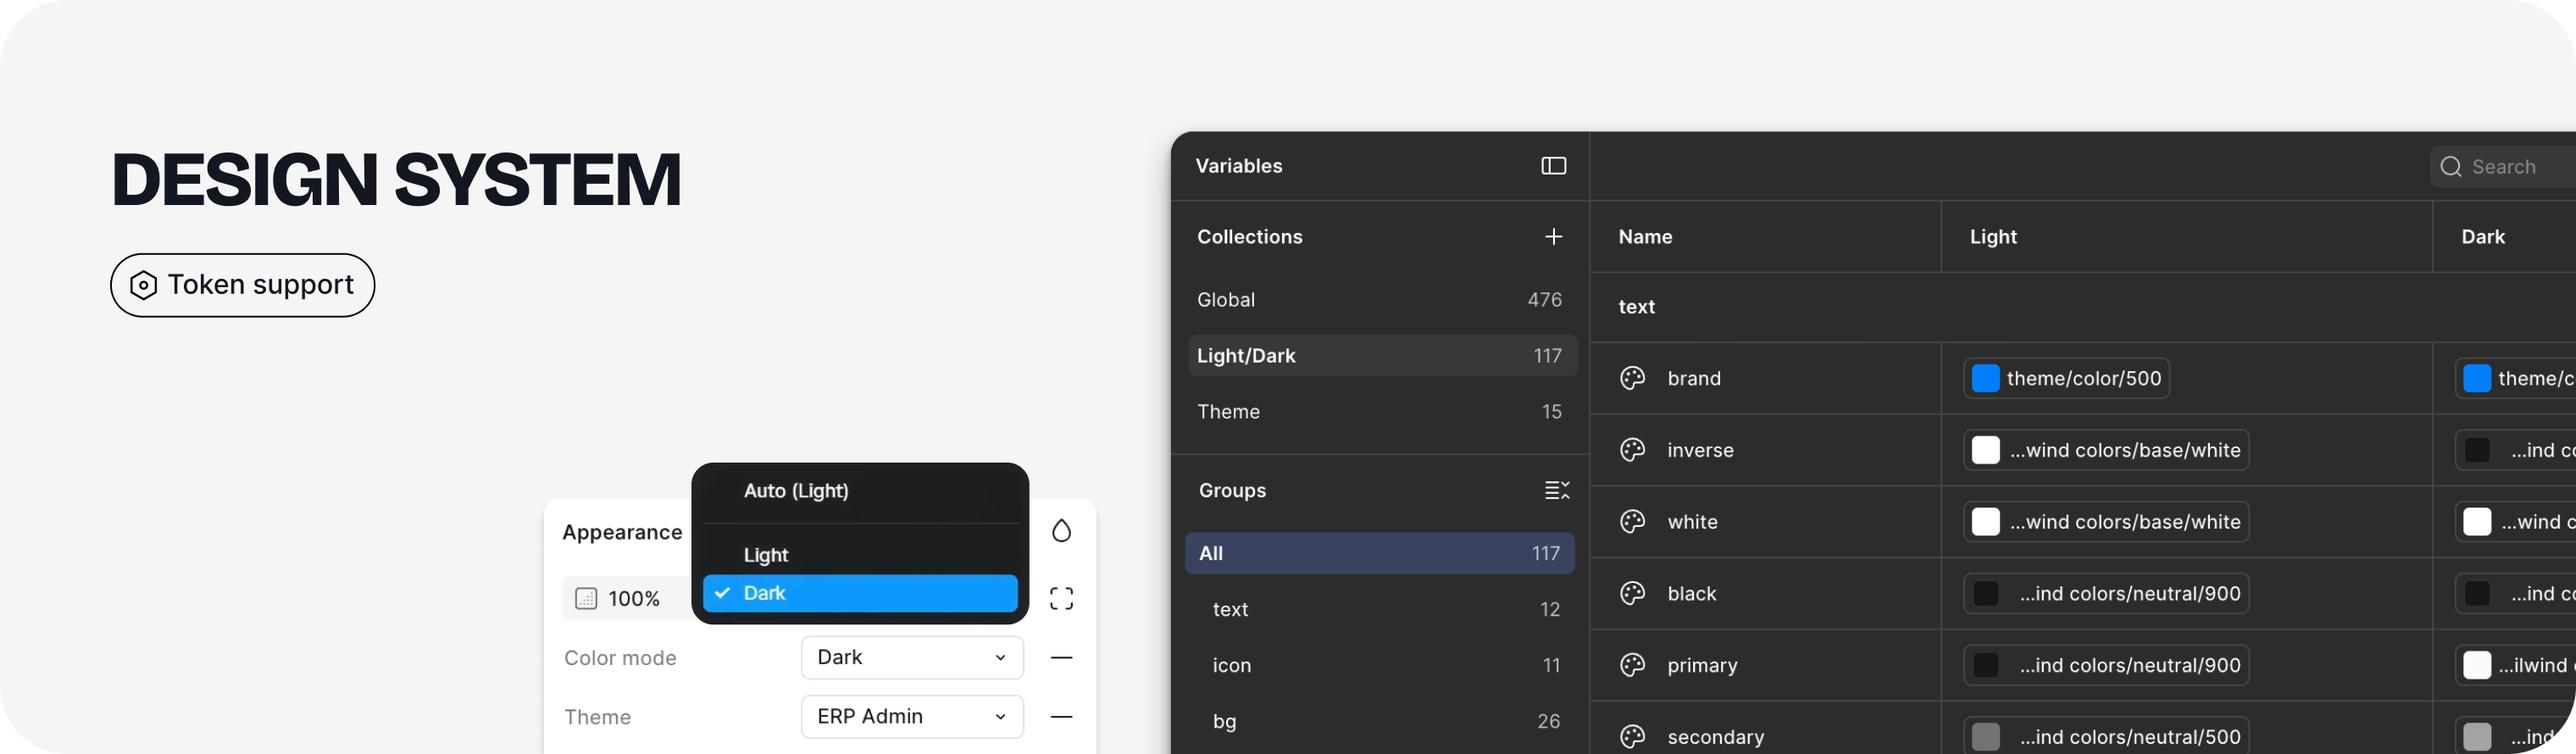
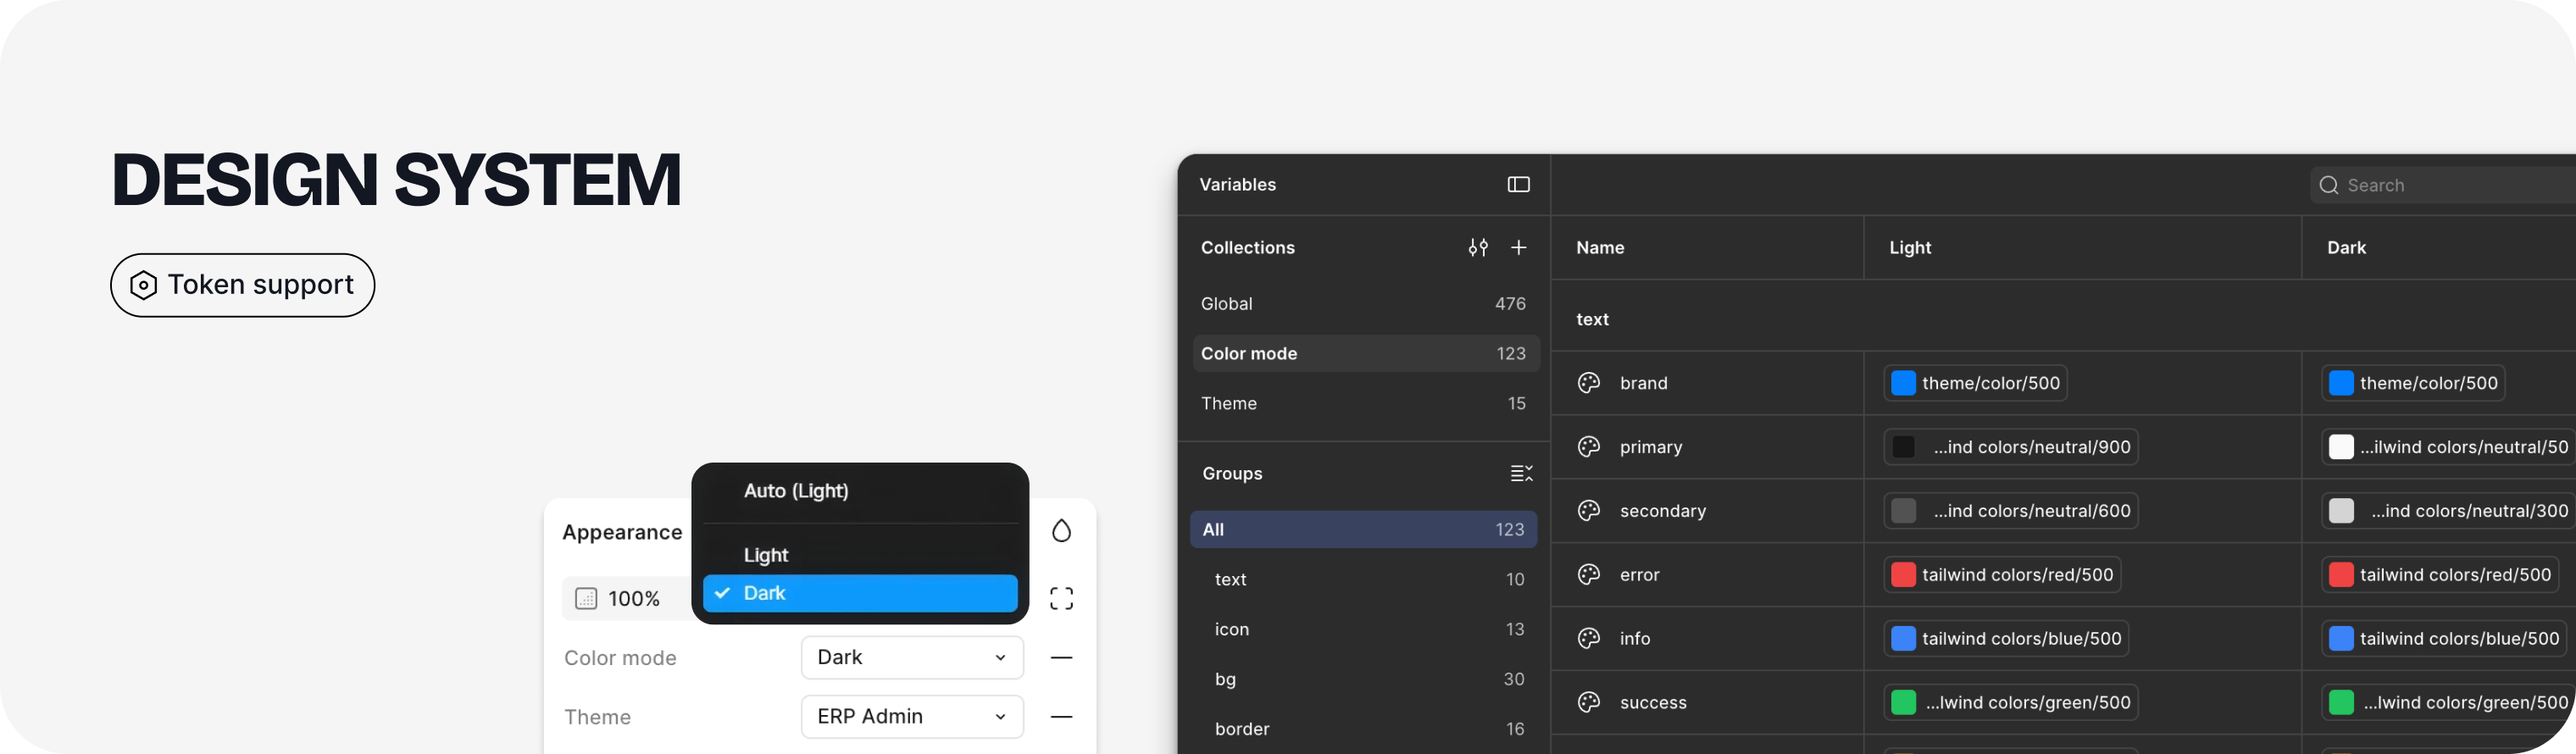
Refresh ERP project introduction and design system image

diff --git a/vietnix-erp/index.html b/vietnix-erp/index.html
@@ -1071,15 +1071,15 @@
     @media (max-width:800px) {
       .capabilities-inner { grid-template-columns:1fr; gap:24px; }
     }
-  </style>
+</style>
 </head>
 <body>
   <header class="nav"><div class="wrap nav-inner"><a class="brand" href="#top">Nga Pham</a><nav class="nav-links" aria-label="Điều hướng case study"><a href="#context">Vai trò</a><a href="#migration">Bối cảnh</a><a href="#capabilities">Phạm vi tính năng</a><a href="#system">Design system</a><a href="#process">Workflow</a><a href="#account-context">Case study</a><a href="#screens">Màn hình</a></nav><button class="menu" type="button" aria-label="Mở menu" aria-expanded="false"></button></div><div class="progress"></div></header>
   <main id="top">
     <section class="hero"><div class="wrap hero-inner">
-      <div class="hero-intro"><div class="hero-title reveal"><p class="eyebrow">Case study · 01 - 10/2026</p><h1 class="display title-xl">ERP - Platform Migration<br>&amp; System Redesign</h1></div><div class="hero-info"><div class="hero-copy reveal"><p class="lead">Thiết kế lại trải nghiệm Vietnix ERP khi chuyển từ WHMCS sang hệ thống tự xây dựng cho cả Client Portal và Admin Portal.</p><p class="detail">Bài toán không chỉ là giao diện mới: luồng thao tác phải thích ứng với <span class="token-emphasis">Data Migration</span>, nhu cầu quản lý dịch vụ của <span class="token-emphasis">Client Portal</span> và quy trình vận hành của <span class="token-emphasis">Admin Portal</span>. Mình ưu tiên làm rõ ngữ cảnh tài khoản, trạng thái chỉnh sửa và cấu trúc dữ liệu, đồng thời giữ những cách thao tác quen thuộc để giảm thay đổi không cần thiết.</p></div><dl class="meta-list reveal"><div class="meta-row"><dt>Vai trò</dt><dd>UX/UI Product Designer</dd></div><div class="meta-row"><dt>Thời gian</dt><dd>01 - 10/2026</dd></div><div class="meta-row"><dt>Nền tảng</dt><dd>Client Portal &amp; Admin Portal</dd></div></dl></div></div>
+      <div class="hero-intro"><div class="hero-title reveal"><h1 class="display title-xl">ERP - Platform Migration<br>&amp; System Redesign</h1></div><div class="hero-info"><div class="hero-copy reveal"><p class="lead">Thiết kế lại trải nghiệm Vietnix ERP khi chuyển từ WHMCS sang hệ thống tự xây dựng cho cả Client Portal và Admin Portal.</p><p class="detail">Đây là bài toán thiết kế chịu ràng buộc về Data Migration, không đơn thuần là thay đổi giao diện. Hệ thống mới đồng thời tối ưu trải nghiệm Client Portal và hiệu suất vận hành Admin Portal, đồng thời duy trì tư duy quen thuộc để đảm bảo quá trình chuyển giao liền mạch.</p></div><dl class="meta-list reveal"><div class="meta-row"><dt>Vai trò</dt><dd>UX/UI Product Designer</dd></div><div class="meta-row"><dt>Thời gian</dt><dd>01 - 10/2026</dd></div><div class="meta-row"><dt>Nền tảng</dt><dd>Client Portal &amp; Admin Portal</dd></div></dl></div></div>
       <div class="hero-media reveal"><img src="assets/01-hero-erp-platform-overview.jpg" alt="Laptop hiển thị dashboard Vietnix ERP" fetchpriority="high"></div>
-      <div class="role" id="context"><div class="role-copy reveal"><p class="eyebrow">01 - Vai trò</p><h2 class="display">Mình đã làm những gì</h2><p>Là UX/UI Product Designer duy nhất trong team, mình phân tích tài liệu nghiệp vụ và hệ thống cũ, thiết kế luồng và giao diện cho hai portal, xây dựng Design System, rồi phối hợp với Development trong quá trình triển khai.</p></div><div class="role-work"><div class="role-stats reveal"><div class="role-stat"><strong data-count="2">2</strong><span>Hệ thống (Client + Admin Portal)</span><small>Dùng chung một bộ giao diện</small></div><div class="role-stat"><strong data-count="6">6</strong><span>Nhóm tính năng</span><small>Khách hàng, đơn hàng, dịch vụ, hóa đơn, hỗ trợ…</small></div><div class="role-stat"><strong data-count="100" data-suffix="+">100+</strong><span>Màn hình đã thiết kế</span></div></div><div class="work-list"><div class="work-item reveal"><i></i><p><strong>Xây dựng bộ Design System từ đầu</strong> - bộ quy chuẩn dùng chung giữ cho toàn bộ sản phẩm nhất quán.</p></div><div class="work-item reveal"><i></i><p><strong>Thiết kế giao diện end-to-end cho toàn bộ dự án</strong> - thiết kế các luồng quản lý khách hàng, đơn hàng, thanh toán và vận hành trên cả hai portal.</p></div><div class="work-item reveal"><i></i><p><strong>Chuẩn hoá các mẫu design patterns</strong> - List, Detail, Dashboard, File Manager, Chat/Conversation.</p></div><div class="work-item reveal"><i></i><p><strong>Ứng dụng AI vào quy trình thiết kế</strong> - dùng AI để hỗ trợ research từ tài liệu nghiệp vụ và hệ thống hiện có, đồng thời dựng prototype tương tác để kiểm tra luồng và lấy phản hồi từ team.</p></div></div></div></div>
+      <div class="role" id="context"><div class="role-copy reveal"><p class="eyebrow">01 - Vai trò</p><h2 class="display">Mình đã làm những gì</h2><p>Là UX/UI Product Designer duy nhất trong team, mình phân tích tài liệu nghiệp vụ và hệ thống cũ, thiết kế luồng và giao diện cho hai portal, xây dựng Design System, rồi phối hợp với Development trong quá trình triển khai.</p></div><div class="role-work"><div class="role-stats reveal"><div class="role-stat"><strong data-count="2">2</strong><span>Hệ thống (Client + Admin Portal)</span><small>Dùng chung một bộ giao diện</small></div><div class="role-stat"><strong data-count="5" data-suffix="+">5+</strong><span>Nhóm tính năng</span><small>Khách hàng, đơn hàng, dịch vụ, hóa đơn, hỗ trợ…</small></div><div class="role-stat"><strong data-count="100" data-suffix="+">100+</strong><span>Màn hình đã thiết kế</span></div></div><div class="work-list"><div class="work-item reveal"><i></i><p><strong>Xây dựng bộ Design System từ đầu</strong> - bộ quy chuẩn dùng chung giữ cho toàn bộ sản phẩm nhất quán.</p></div><div class="work-item reveal"><i></i><p><strong>Thiết kế giao diện end-to-end cho toàn bộ dự án</strong> - thiết kế các luồng quản lý khách hàng, đơn hàng, thanh toán và vận hành trên cả hai portal.</p></div><div class="work-item reveal"><i></i><p><strong>Chuẩn hoá các mẫu design patterns</strong> - List, Detail, Dashboard, File Manager, Chat/Conversation.</p></div><div class="work-item reveal"><i></i><p><strong>Ứng dụng AI vào quy trình thiết kế</strong> - dùng AI để hỗ trợ research từ tài liệu nghiệp vụ và hệ thống hiện có, đồng thời dựng prototype tương tác để kiểm tra luồng và lấy phản hồi từ team.</p></div></div></div></div>
     </div></section>
     <section class="migration dark" id="migration"><div class="wrap migration-inner"><div class="migration-head reveal"><p class="eyebrow">02 - Bối cảnh</p><h2 class="display">Từ nền tảng mua sẵn sang<br>hệ thống tự xây dựng</h2></div><div class="problem-grid"><article class="problem-card reveal"><h3>Vấn đề</h3><p>Vietnix sử dụng WHMCS - nền tảng quản lý hosting sẵn có nhưng khó tùy biến theo nghiệp vụ riêng và có giới hạn khi tích hợp, mở rộng.</p></article><article class="problem-card reveal"><h3>Bài toán đặt ra</h3><p>Thiết kế trải nghiệm cho hệ thống ERP hosting tự xây dựng, trong bối cảnh cần chuyển dữ liệu của hàng chục nghìn khách hàng. Hai portal phải hỗ trợ nhu cầu quản lý dịch vụ của Client và quy trình vận hành của Admin.</p></article></div><div class="comparison"><figure class="compare-item before reveal"><div class="compare-media"><img src="assets/02-context-whmcs-before.jpg" alt="Giao diện WHMCS cũ" loading="lazy"></div><figcaption>Hệ thống WHMCS cũ</figcaption></figure><div class="compare-arrow">→</div><figure class="compare-item after reveal"><div class="compare-media"><img src="assets/02-context-vietnix-erp-after.jpg" alt="Giao diện Vietnix ERP mới trên laptop" loading="lazy"></div><figcaption>Hệ thống Vietnix ERP mới</figcaption></figure></div></div></section>
     <section class="capabilities" id="capabilities" aria-labelledby="capabilities-title"><div class="wrap capabilities-inner">

diff --git a/vietnix-erp/erp-i18n.js b/vietnix-erp/erp-i18n.js
@@ -19,12 +19,9 @@
     ['Xem và lọc hóa đơn, thanh toán, in hoặc tải hóa đơn. Admin có thể hủy hóa đơn, điều chỉnh tín dụng, thêm và chỉnh sửa giao dịch.', 'View and filter invoices, make payments, and print or download invoices. Admins can cancel invoices, adjust credit, and add or edit transactions.'],
     ['Gửi, tiếp nhận và xử lý yêu cầu hỗ trợ về tài khoản và dịch vụ, đồng thời theo dõi phản hồi.', 'Submit, receive, and handle account and service requests, and track replies.'],
 
-    ['Vai trò','My role'],['Bối cảnh','Context'],['Màn hình','Screens'],['Thời gian','Timeline'],['Nền tảng','Platforms'],['01 - 10/2026','Jan - Oct 2026'],['Case study · 01 - 10/2026','Case study · Jan - Oct 2026'],
+    ['Vai trò','My role'],['Bối cảnh','Context'],['Màn hình','Screens'],['Thời gian','Timeline'],['Nền tảng','Platforms'],['01 - 10/2026','Jan - Oct 2026'],
     ['Thiết kế lại trải nghiệm Vietnix ERP khi chuyển từ WHMCS sang hệ thống tự xây dựng cho cả Client Portal và Admin Portal.','Redesigning the Vietnix ERP experience as it moves from WHMCS to a custom system for both the Client and Admin portals.'],
-    ['Bài toán không chỉ là giao diện mới: luồng thao tác phải thích ứng với','The challenge goes beyond a new interface: workflows must account for'],
-    [', nhu cầu quản lý dịch vụ của',', service management in the'],
-    ['và quy trình vận hành của','and operations in the'],
-    ['. Mình ưu tiên làm rõ ngữ cảnh tài khoản, trạng thái chỉnh sửa và cấu trúc dữ liệu, đồng thời giữ những cách thao tác quen thuộc để giảm thay đổi không cần thiết.','. I focused on clarifying account context, editing states, and information structure while preserving familiar interactions where change was unnecessary.'],
+    ["Đây là bài toán thiết kế chịu ràng buộc về Data Migration, không đơn thuần là thay đổi giao diện. Hệ thống mới đồng thời tối ưu trải nghiệm Client Portal và hiệu suất vận hành Admin Portal, đồng thời duy trì tư duy quen thuộc để đảm bảo quá trình chuyển giao liền mạch.", "Data migration shaped the design. The new system improves the Client Portal experience and the efficiency of Admin Portal workflows while preserving familiar mental models for a smooth transition."],
     ['01 - Vai trò','01 - My role'],['Mình đã làm những gì','My contribution'],
     ['Là UX/UI Product Designer duy nhất trong team, mình phân tích tài liệu nghiệp vụ và hệ thống cũ, thiết kế luồng và giao diện cho hai portal, xây dựng Design System, rồi phối hợp với Development trong quá trình triển khai.','As the sole UX/UI Product Designer on the team, I analyzed business documents and the previous system, designed flows and interfaces for both portals, built the design system, and worked with Development during implementation.'],
     ['Hệ thống (Client + Admin Portal)','Systems (Client + Admin Portal)'],['Dùng chung một bộ giao diện','One shared design language'],['Nhóm tính năng','Feature groups'],['Khách hàng, đơn hàng, dịch vụ, hóa đơn, hỗ trợ…','Customers, orders, services, invoices, support…'],['Màn hình đã thiết kế','Screens designed'],
